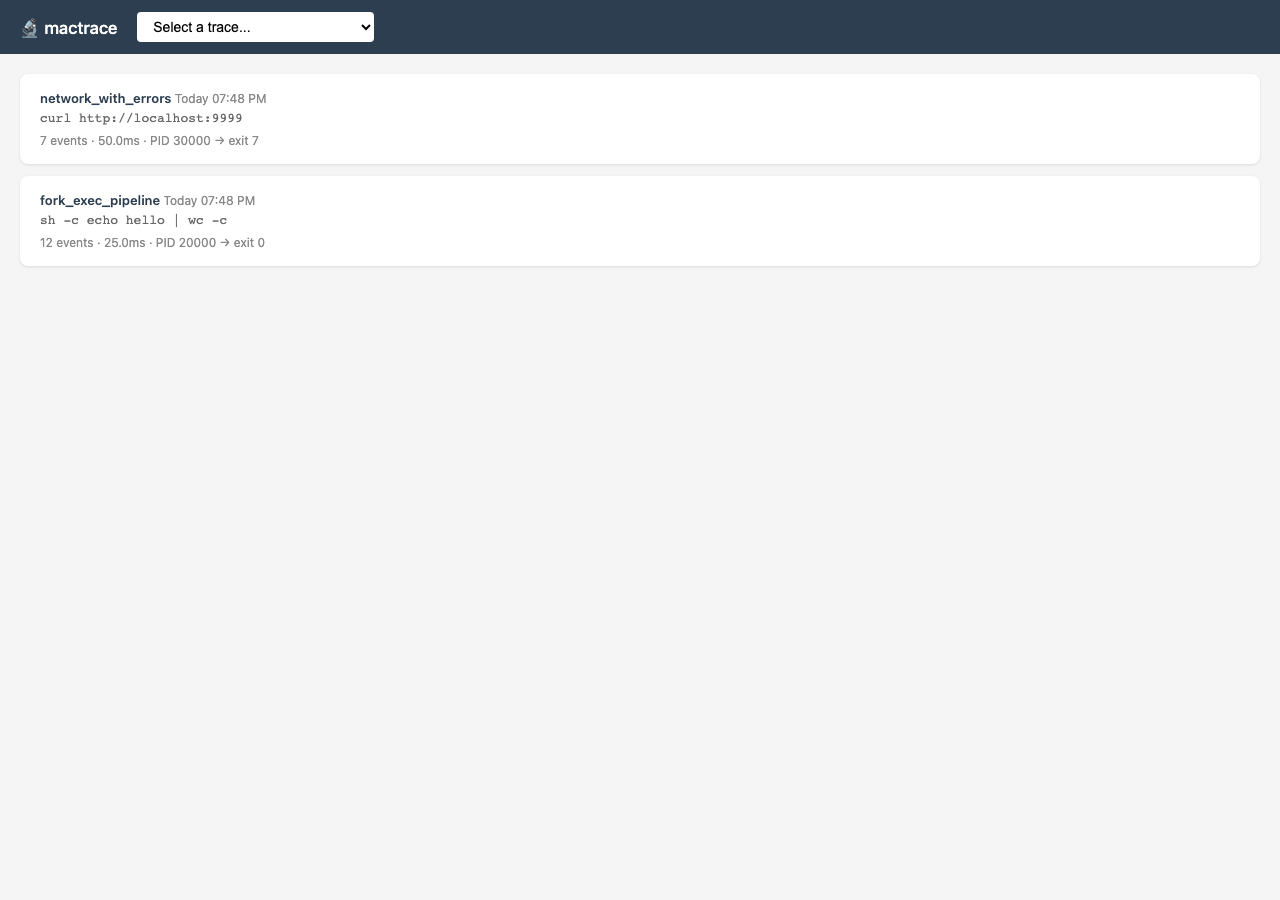
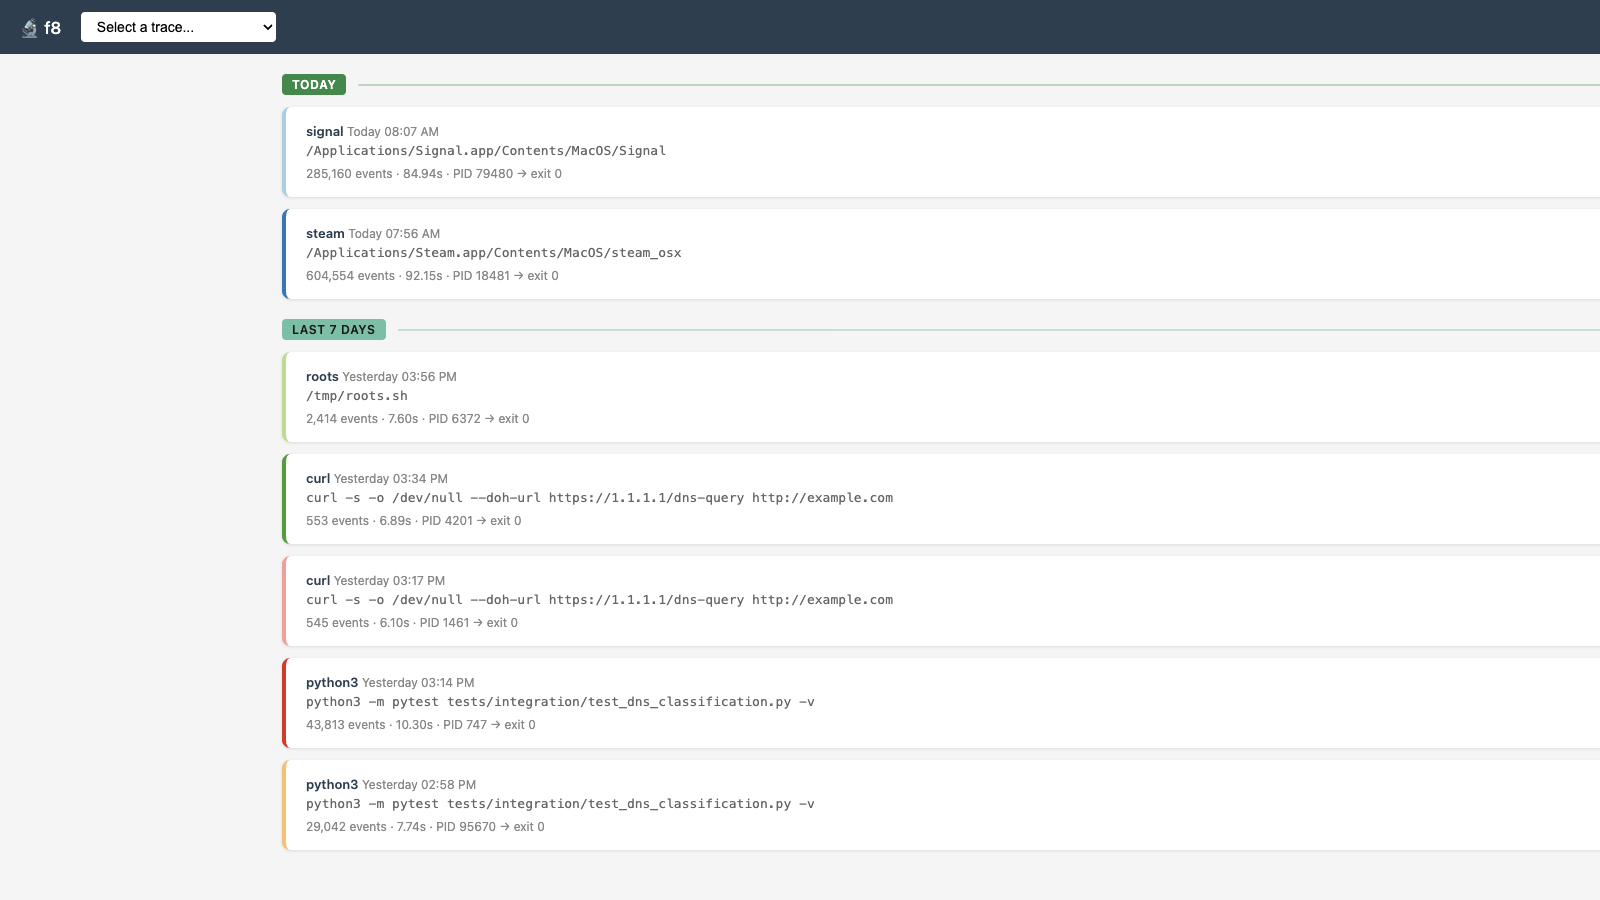
Update README screenshots: Signal trace with DNS enrichment
Replaced old mactrace-era screenshots with current f8 UI:
- Trace list: shows signal, steam, curl, python3 traces grouped by date
- Timeline: Signal trace DNS jump to mDNSResponder lookup for
  chat.signal.org, showing DNS badges, category filters, and I/O capture
Updated captions to match new content.

diff --git a/README.md b/README.md
@@ -9,10 +9,10 @@ f8 is an effort to instrument the shadows. All the details, including syscalls, 
 **f8** is an strace-like system call tracer for macOS that uses DTrace under the hood. It traces syscalls for a given command and provides an interactive web-based timeline/exec viewer along with JSON files for analysis.
 
 ![Trace list](docs/screenshot-traces.png)
-*Trace list — each imported trace shows the command, event count, duration, and exit code.*
+*Trace list — imported traces grouped by date with command, event count, duration, and exit code.*
 
 ![Timeline view](docs/screenshot-timeline.png)
-*Timeline detail — color-coded syscalls with category filtering, I/O tracking, and process tree.*
+*Timeline detail — DNS-enriched view of Signal's mDNSResponder lookups, with category filtering and per-event I/O capture.*
 
 > Important: ** f8 requires SIP DTrace restrictions to be disabled. ** This is Apple, don't look at me. Check to see if its enabled/disabled with `csrutil status`. See [Troubleshooting](#troubleshooting) if you need to check/change your settings.
 
